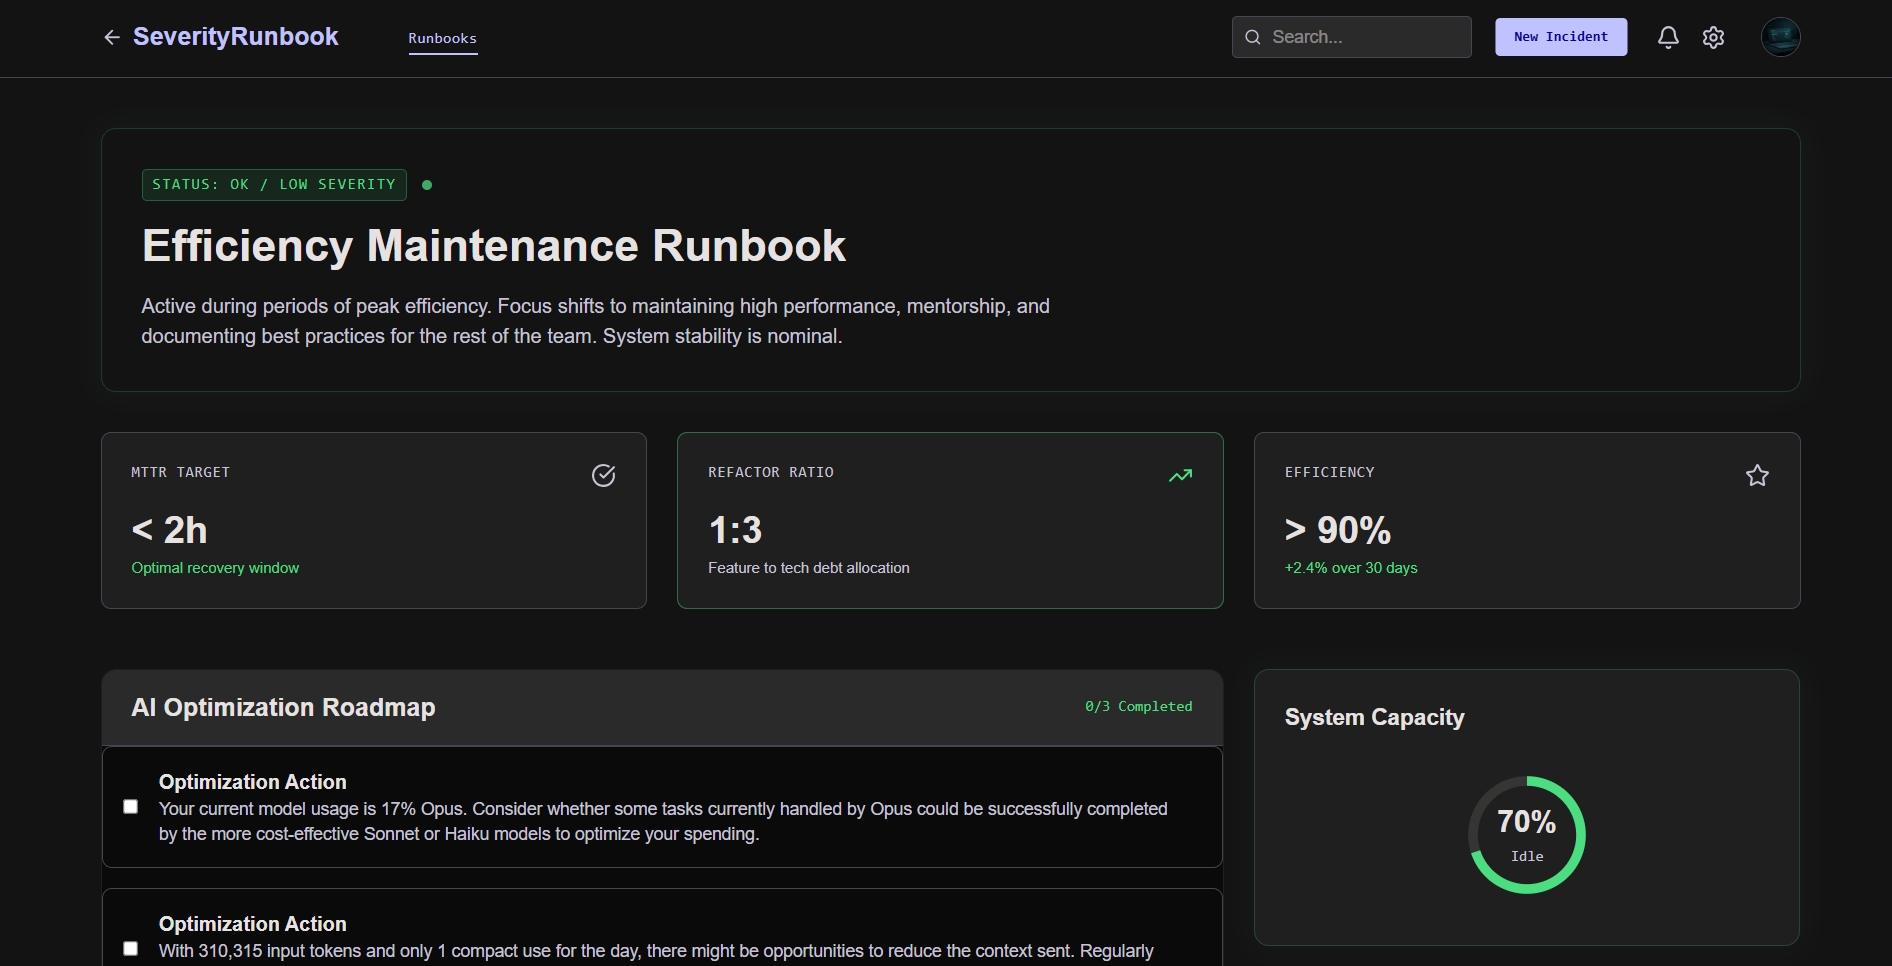
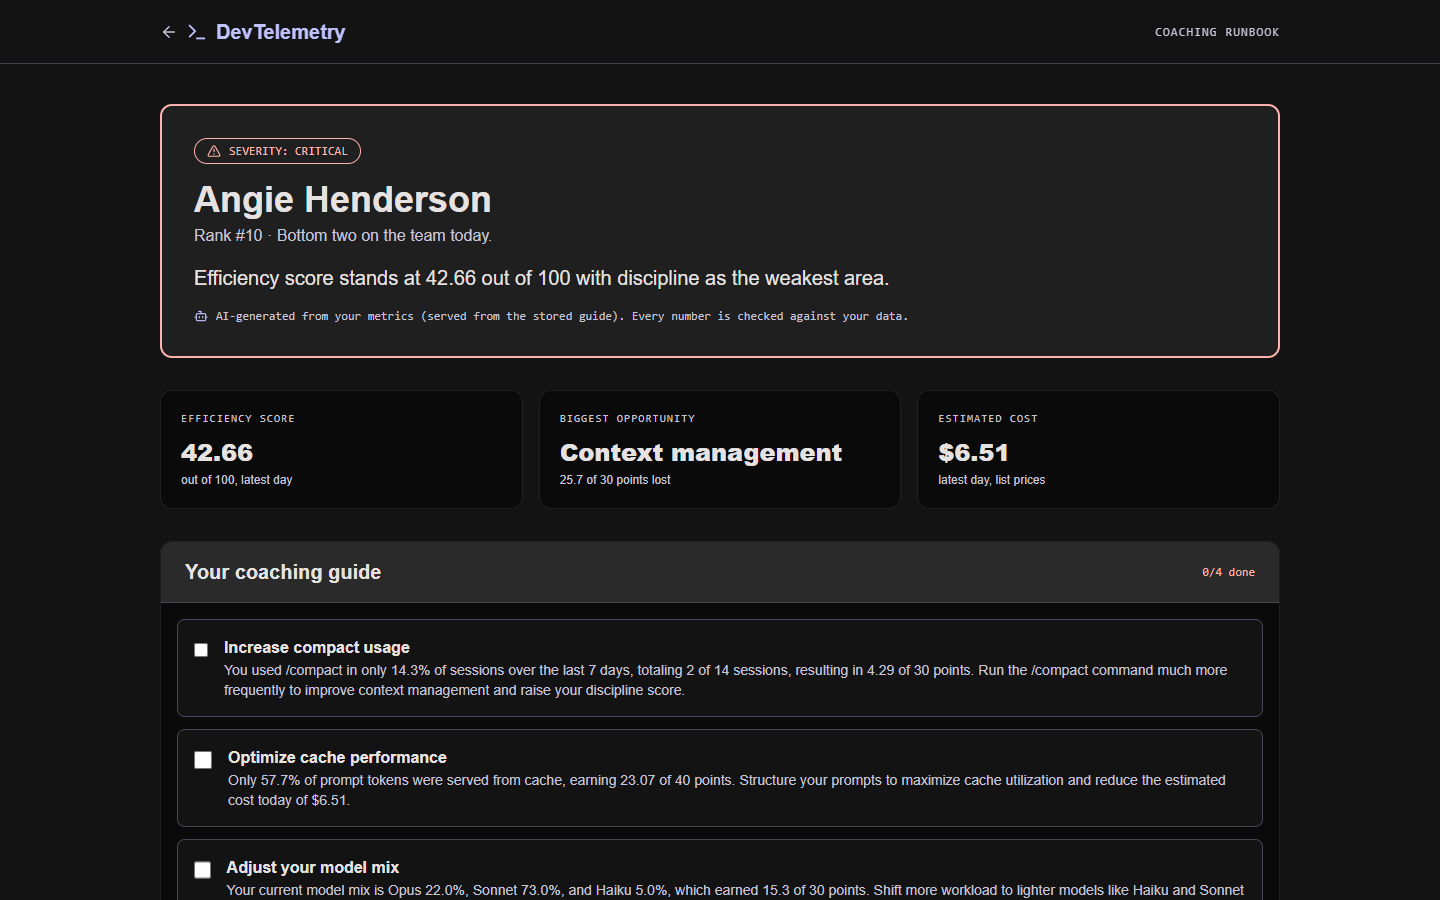
docs(Phase 7): retake screenshots from the current UI; add the engineer page
Taken with Playwright driving Edge against a fresh clone, after UI-01
removed the mock-up content (the old screenshots showed it).

diff --git a/README.md b/README.md
@@ -36,9 +36,12 @@ A manager sees only the total bill, and an engineer gets no feedback on their ha
 
 ## Demo
 
-![Team overview](screenshots/dashboard-overview.png)
-![Leaderboard](screenshots/dashboard-leaderboard.png)
-![Coaching runbook](screenshots/ai-runbook.png)
+![Team overview: averages, 30-day trends](screenshots/dashboard-overview.png)
+![Leaderboard with 7-day score change and activity](screenshots/dashboard-leaderboard.png)
+![Engineer page with the score breakdown](screenshots/engineer-detail.png)
+![Coaching runbook: the engineer's numbers and their guide](screenshots/ai-runbook.png)
+
+Screenshots: local run of this repository, 2026-10-04, simulated team.
 
 The console agent (`python main.py`) prints the latest leaderboard, a team memo, and guides for the bottom five. This is real output (2026-10-04, simulated team, trimmed):
 
